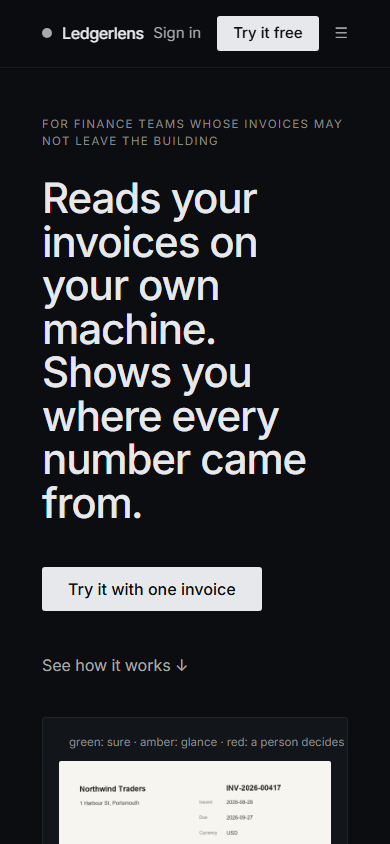
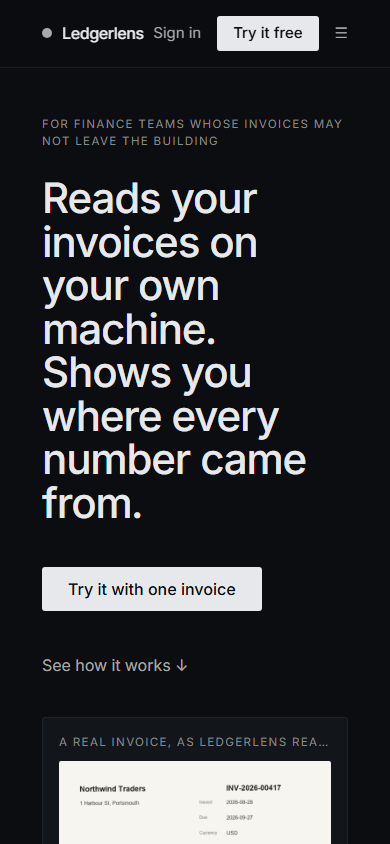
fix(web): direction B fits a phone (minmax(0) columns, the specimen legend hidden below sm); chapter 15 opened - gate 5, the prototypes, awaiting the second model's debate
Claude-Session: https://claude.ai/code/session_01B6u4L5DX7iK4uWMVRPSbzu

Changed region(s): [[0.1538, 0.8626, 0.8923, 0.8934]]

diff --git a/story/15-gate-5-prototypes.md b/story/15-gate-5-prototypes.md
@@ -1,0 +1,29 @@
+# 15 · Gate 5 — the prototypes, debated and chosen
+
+*2026-09-08. A live log. Three directions rendered side by side; a second frontier model debates them before the AI Builder sees them; the AI Builder (the character Fable plays, D-051) picks one and says why; the Director may override.*
+
+## Setting
+
+Loop 1 offered three hero directions as paragraphs and the AI Builder chose a word (chapter 07; D-048). Gate 5 exists so that never happens again: a direction is a render or it is not a choice. Three were built, each complete to the Series-C checklist (D-050) — a company's navigation, the real specimen in the hero, a proof band that says "no customers yet" and shows the measured numbers, a product tour with plates, where the numbers go, where the documents live, a comparison with what the buyer does today, the honest limit, pricing, the questions a finance lead asks, a footer you could run a business from — and each rendered at 1440 × 900 and 390 × 844. Routes: `/prototypes/a`, `/prototypes/b`, `/prototypes/c`. Renders: `story/assets/prototypes/`.
+
+| Direction | The bet | Register | The fold |
+|---|---|---|---|
+| **A — the product is the proof** | a buyer who sees the evidence trusts it | instrument (dark) | one two-line sentence — "Reads your invoices on your own machine. Shows you where every number came from." — then the real review screen, large |
+| **B — Priya's day** | a buyer who recognises herself keeps reading | paper (the same tokens re-valued; a serif display) | "Your invoices, read on your own machine — with the receipts." beside the specimen as an object on a desk; then a morning told as a timeline |
+| **C — the number** | a buyer who is deciding wants the argument, not the tour | instrument (dark) | 95/100 at display size with its denominator, "Invoice automation you can defend to an auditor", then a four-number band with the honest zero in red, then the comparison |
+
+Built by Fable in one pass from shared sections (`apps/web/src/components/site/`), so the three differ in the bet, not in the completeness.
+
+## The second model's debate
+
+*(spawned with fresh context: the six fold renders, the three full pages, `bar.md`, the Series-C checklist; asked which wins for Priya, which should be killed, and what every one is missing)*
+
+*(pending)*
+
+## AI Builder
+
+*(pending — after the debate)*
+
+## Gate
+
+`WAITING ON YOU (judgement only)` — the Director may override the character's pick.
